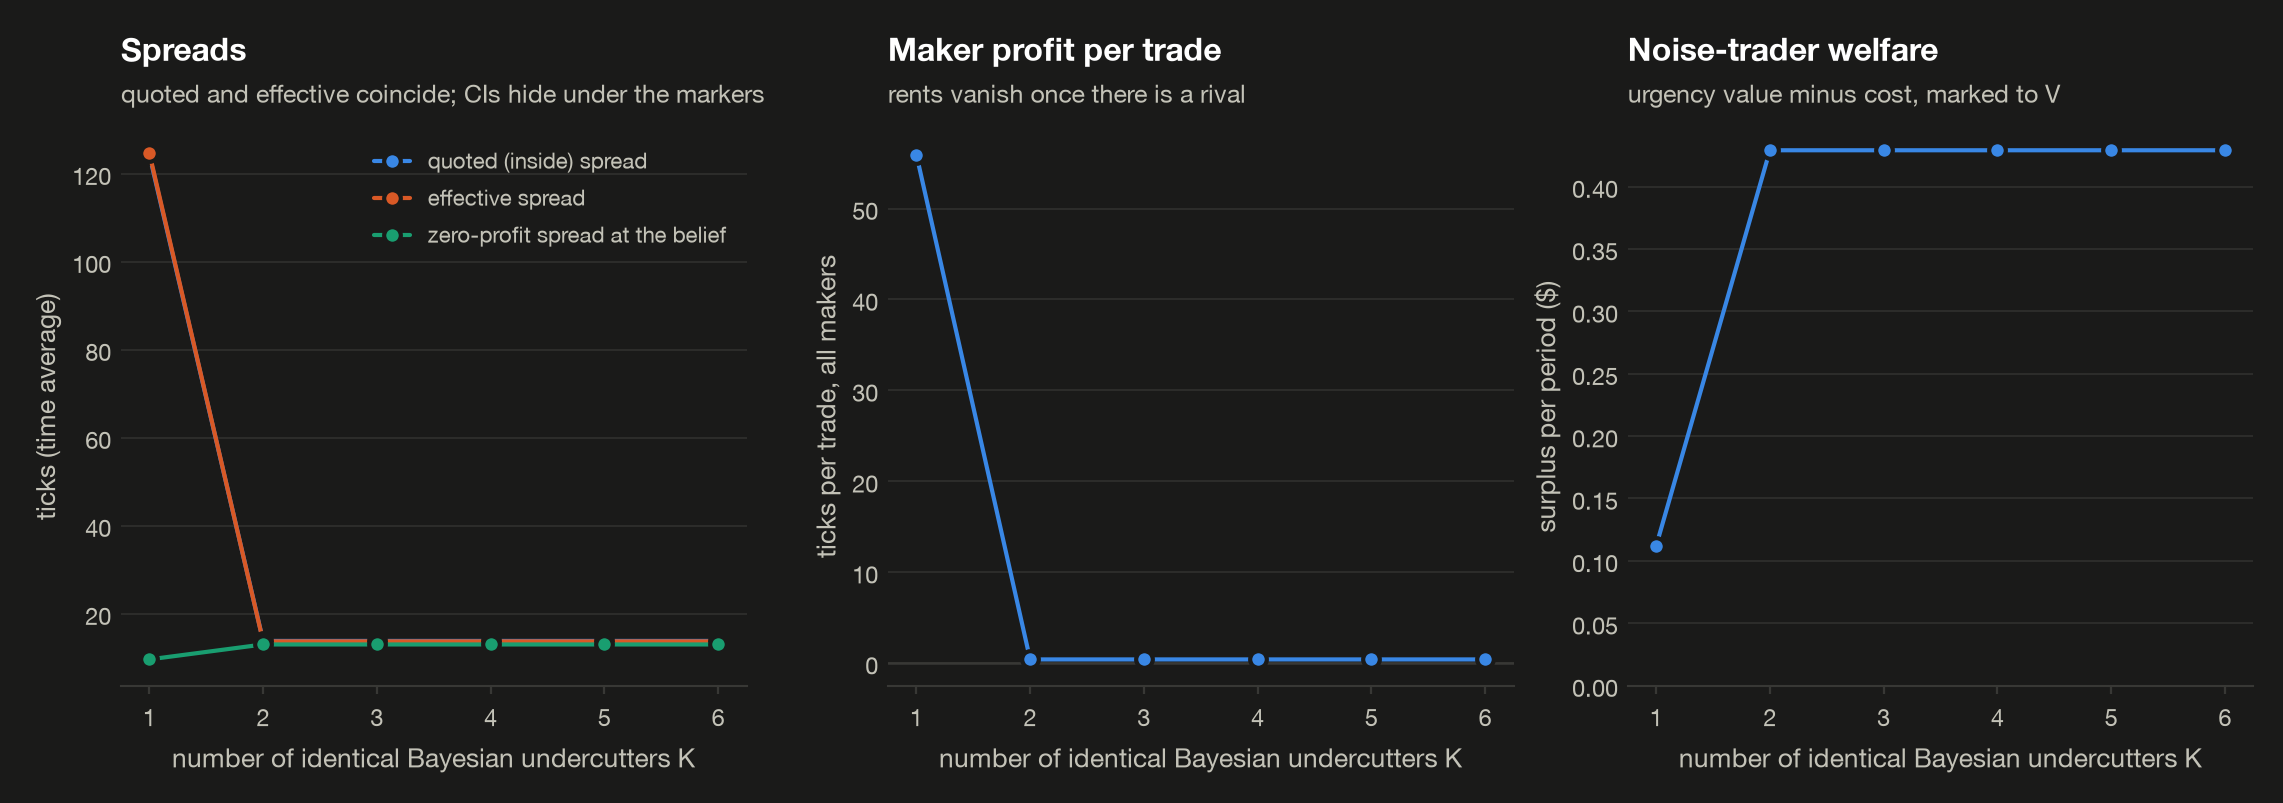
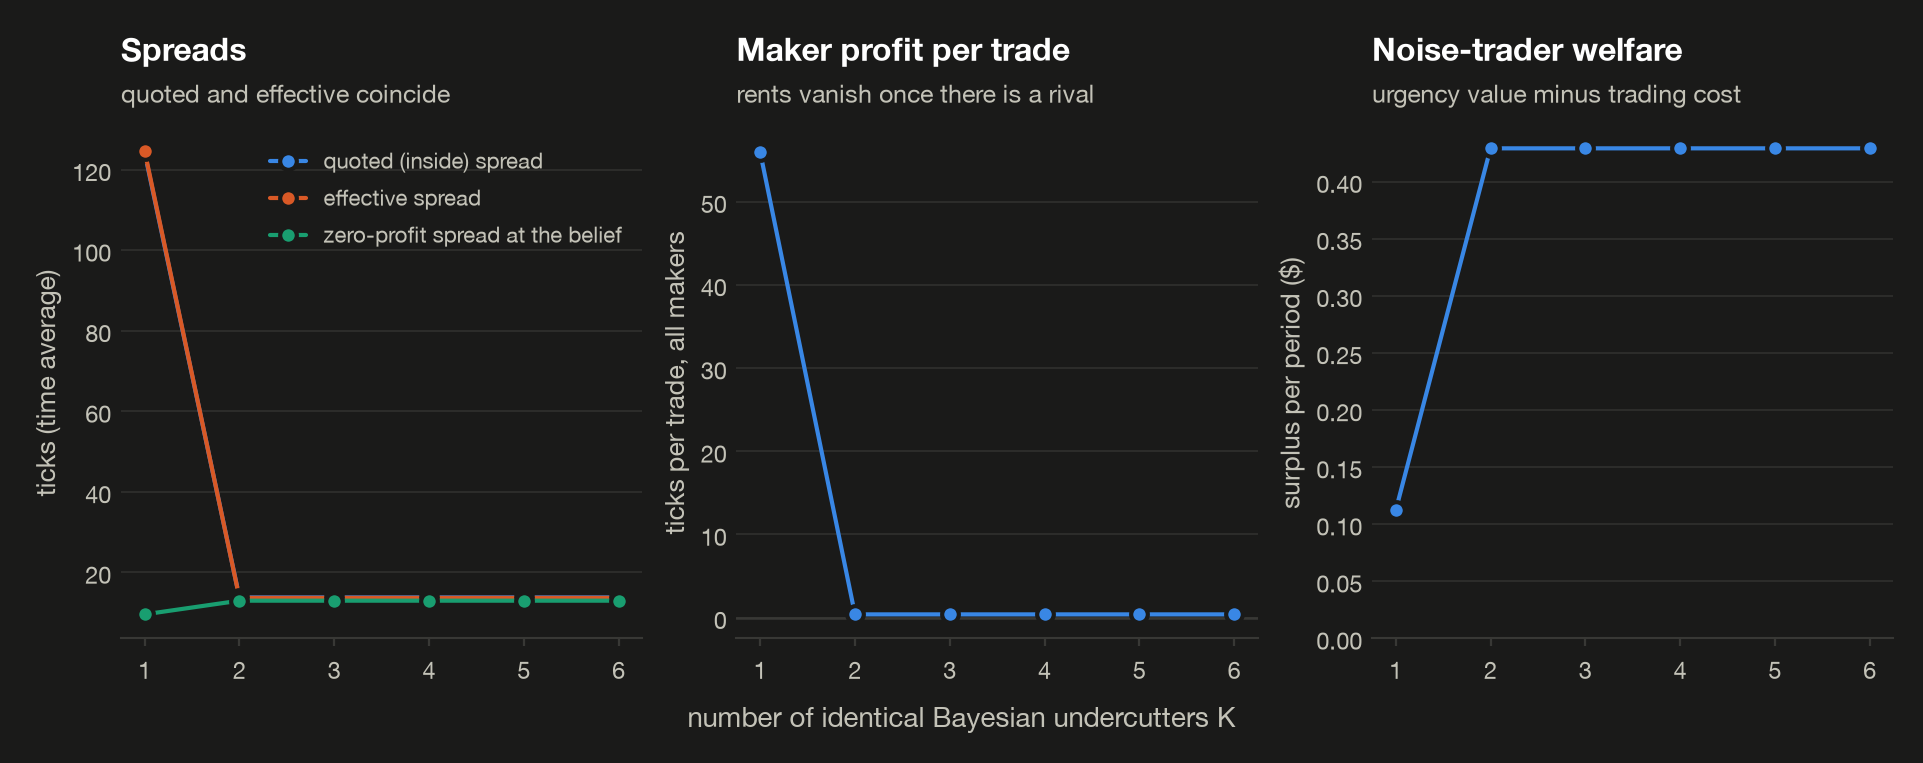
README: headline findings up front; larger text in the arena figure

diff --git a/src/markout/readme.py b/src/markout/readme.py
@@ -130,6 +130,60 @@ def desk_section() -> list[str]:
     return out
 
 
+def brief() -> list[str]:
+    """The headline numbers, for readers who stop after the first screen."""
+    out = []
+    a = results.load("auction")
+    if a:
+        s, h = a["selected"]["summary"], (a.get("holdout") or {}).get("adapted_1x", {})
+        two = next(r for r in a["robustness"]["cost_rows"] if r["cost_mult"] == 2.0)["adapted"]["sharpe_annualized"]
+        share = a["diebold_mariano"]["share_days_better"]
+        days = "every out-of-sample day" if share == 1 else f"{100 * share:.0f}% of out-of-sample days"
+        out.append(f"**Closing auction.** A LightGBM model beats a per-stock baseline on {days}. Traded net of costs, "
+                   f"it earns an annualized Sharpe of {s['sharpe_annualized']:.1f}, and "
+                   f"{h.get('sharpe_annualized', float('nan')):.1f} on a holdout I opened once. At twice the assumed "
+                   f"costs it drops to {two:.1f}, and at a size the order book can absorb it makes "
+                   f"${s['total_pnl_usd']:,.0f} in {s['days']} days: real, but thin.")
+    m = results.load("microstructure")
+    if m:
+        intc = {r["model"]: r for r in m["fills"]["INTC"]["summary"]}
+        out.append(f"**Fills.** Resting orders in INTC look profitable if any trade at your price fills you "
+                   f"({intc['touch']['mk_10_bps']:+.2f} bps ten seconds later). Simulating queue position order by "
+                   f"order turns that into {intc['fifo']['mk_10_bps']:+.2f} bps: the fills you actually get are the "
+                   "ones you didn't want.")
+    ar = results.load("arena")
+    if ar:
+        k = {r["K"]: r for r in ar["arena"]["k_sweep"]}
+        out.append(f"**Competition.** A lone market maker quotes a {100 * k[1]['quoted_spread']['mean']:.0f}-tick "
+                   f"spread; one identical rival brings it to {100 * k[2]['quoted_spread']['mean']:.1f}, next to the "
+                   f"zero-profit {100 * k[2]['zero_profit_spread']['mean']:.1f}. Competition removes the rent, not the "
+                   "cost of trading against informed flow.")
+    v = results.load("vol_premium")
+    if v:
+        kf, sd = v["kelly_full"], v.get("straddle")
+        text = (f"**Volatility premium.** VIX sat above the volatility that followed "
+                f"{100 * v['share_implied_above']:.0f}% of the time since 1990, but the textbook Kelly formula asks for "
+                f"{kf['v_continuous'] / kf['v_star']:.1f}x the growth-optimal size"
+                + (", and every Kelly fraction fitted on 1993–2007 was wiped out after 2008."
+                   if all(x["busted"] for x in v["kelly_after_2008"]) else "."))
+        if sd:
+            vs, st = sd["instruments"]["var_swap"]["worst_pnl"], sd["instruments"]["straddle"]["worst_pnl"]
+            text += (f" Selling delta-hedged straddles instead of variance cuts the worst month from {-vs:.0f} to "
+                     f"{-st:.0f} per $1 of vega, though at-the-money options carry less of the premium.")
+        out.append(text)
+    c = (results.load("predictions_cup") or {}).get("contest")
+    if c:
+        cfg, k1 = c["config"], next(r for r in c["base"] if r["policy"] == "1x Kelly")
+        best = max(c["base"], key=lambda r: r["p_top3"])
+        placed = "never finishes" if k1["p_top3"] == 0 else f"finishes {100 * k1['p_top3']:.1f}% of the time"
+        out.append(f"**Contest sizing.** In a simulated {cfg['n_players']:,}-player contest that pays only the top 3, "
+                   f"1x Kelly {placed} in the money over {cfg['n_sims']:,} runs. The best policy tried "
+                   f"({best['policy']}) gets there {100 * best['p_top3']:.1f}% of the time, "
+                   f"{best['p_top3'] / (3 / cfg['n_players']):.0f}x a random player's odds, and busts in "
+                   f"{100 * best['p_bust']:.0f}% of runs.")
+    return (["## In brief", ""] + [f"- {b}" for b in out] + [""]) if out else []
+
+
 def build() -> str:
     a = results.load("auction") or {}
     times = (a.get("holdout") or {}).get("accessed")
@@ -146,6 +200,7 @@ def build() -> str:
         "whether they got picked off. The same trap shows up at every stage here: the best of many backtests "
         "looks better than it is, and so do the order that happened to get filled and the bet where you disagree "
         "most with the market. Each part tries to measure that gap and correct for it.", "",
+        *brief(),
         "## Contents", "",
         "| Part | Question | Data |",
         "|---|---|---|",

diff --git a/src/markout/games/report.py b/src/markout/games/report.py
@@ -529,7 +529,7 @@ def fig_arena_competition(a: dict) -> None:
         return m, e
 
     def draw():
-        fig, axes = mp.subplots(1, 3, w=11.2, h=3.8)
+        fig, axes = mp.subplots(1, 3, w=9.4, h=3.6)
         for i, (key, lab) in enumerate((("quoted_spread", "quoted (inside) spread"),
                                         ("effective_spread", "effective spread"),
                                         ("zero_profit_spread", "zero-profit spread at the belief"))):
@@ -537,7 +537,7 @@ def fig_arena_competition(a: dict) -> None:
             _line_with_ci(axes[0], K, m, e, mp.series(i), lab)
         axes[0].set_ylabel("ticks (time average)")
         mp.legend(axes[0], loc="upper right", fontsize=8)
-        mp.title(axes[0], "Spreads", "quoted and effective coincide; CIs hide under the markers")
+        mp.title(axes[0], "Spreads", "quoted and effective coincide")
         m, e = err("maker_pnl_per_trade", 1 / tick)
         _line_with_ci(axes[1], K, m, e, mp.series(0))
         mp.zero_line(axes[1])
@@ -547,11 +547,11 @@ def fig_arena_competition(a: dict) -> None:
         _line_with_ci(axes[2], K, m, e, mp.series(0))
         axes[2].set_ylim(0, None)
         axes[2].set_ylabel("surplus per period ($)")
-        mp.title(axes[2], "Noise-trader welfare", "urgency value minus cost, marked to V")
+        mp.title(axes[2], "Noise-trader welfare", "urgency value minus trading cost")
         for ax in axes:
-            ax.set_xlabel("number of identical Bayesian undercutters K")
             ax.set_xticks(K)
             _style_axes(ax)
+        fig.supxlabel("number of identical Bayesian undercutters K", fontsize=10, color=mp.ink("secondary"))
         return fig
     mp.render("e_arena_competition", draw)
 

diff --git a/README.md b/README.md
@@ -8,6 +8,14 @@ Does a short-horizon trading edge survive the spread, realistic fills, competing
 
 The name comes from the *markout*, the price move right after a trade, which market makers use to check whether they got picked off. The same trap shows up at every stage here: the best of many backtests looks better than it is, and so do the order that happened to get filled and the bet where you disagree most with the market. Each part tries to measure that gap and correct for it.
 
+## In brief
+
+- **Closing auction.** A LightGBM model beats a per-stock baseline on every out-of-sample day. Traded net of costs, it earns an annualized Sharpe of 4.8, and 4.7 on a holdout I opened once. At twice the assumed costs it drops to -0.2, and at a size the order book can absorb it makes $2,041 in 240 days: real, but thin.
+- **Fills.** Resting orders in INTC look profitable if any trade at your price fills you (+0.33 bps ten seconds later). Simulating queue position order by order turns that into -1.64 bps: the fills you actually get are the ones you didn't want.
+- **Competition.** A lone market maker quotes a 124-tick spread; one identical rival brings it to 13.8, next to the zero-profit 13.0. Competition removes the rent, not the cost of trading against informed flow.
+- **Volatility premium.** VIX sat above the volatility that followed 86% of the time since 1990, but the textbook Kelly formula asks for 3.0x the growth-optimal size, and every Kelly fraction fitted on 1993–2007 was wiped out after 2008. Selling delta-hedged straddles instead of variance cuts the worst month from 79 to 41 per $1 of vega, though at-the-money options carry less of the premium.
+- **Contest sizing.** In a simulated 1,000-player contest that pays only the top 3, 1x Kelly never finishes in the money over 10,000 runs. The best policy tried (0.5x Kelly, all-in in the last 80% of rounds if outside top 3) gets there 2.4% of the time, 8x a random player's odds, and busts in 96% of runs.
+
 ## Contents
 
 | Part | Question | Data |
